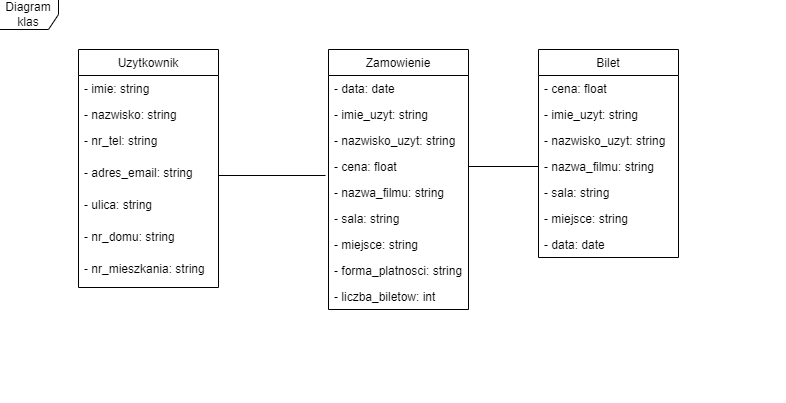
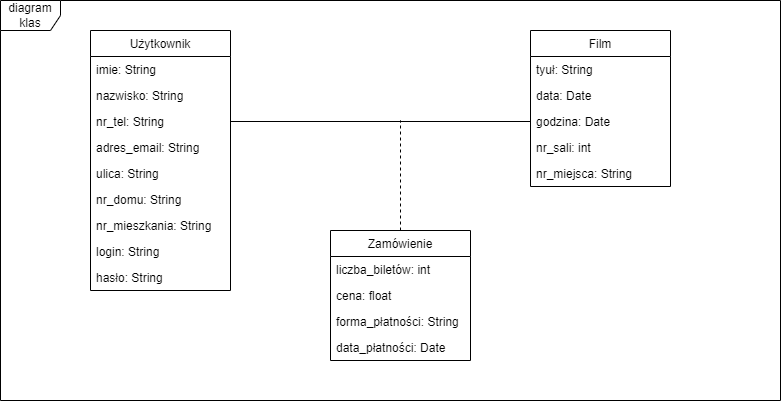
update

diff --git a/index.html b/index.html
@@ -73,7 +73,7 @@
            <h2>SYSTEM TRANSAKCYJNY - opis kontekstu dziedziny problemowej</h2>
            <div class="content">
                <p>Sieć kina chce podjąć się wyświetlana najnowszych obecnie filmów  ekranizowanych na swoich wyświetlaczach za stosowną opłatą uiszczoną w postaci biletu na seans. Właściciel sieci chce utworzyć system transakcyjny za bilety na aktualnie wyświetlane filmy. Metoda zakupu biletu odbywa się na stronie internetowej kina.</p>
-               <p>Metoda transakcji polega na odwiedzeniu przez użytkownika strony WWW kina na której to miałby on dostęp do aktualnie zaplanowanych przez kino filmów wyświetlanych konkretnego dnia i godziny. Po wybraniu interesującego go filmu mógłby przeczytać szczegółowe informacje o nim takie jak czas trwania filmu, reżyser, tytuł, krótki opis filmu, przycisk wybierz który przenosiłby do transakcji zakupowej biletu na wybrany przez użytkownika film po wcześniejszym zalogowaniu się na stronie kina. (w przypadku gdy nie posiada takowego zostaje poproszony o utworzenie go, oraz podanie niezbędnych danych osobowych takich jak: imie, nazwisko, adres email, nr tel, adres zamieszkania, kod pocztowy.) Użytkownik zostaje poproszony o wybór godziny filmu, następnie o wybór miejsc w sali. Na koniec proszony zostaje o wykonanie płatności przelewem za bilet. Po wykonaniu i zaakceptowaniu przez stronę transakcji zakupiony bilet wraz z potwierdzeniem przelewu zostaje wysłany drogą mailową do użytkownika w celu okazania go przed wejściem do Sali kinowej.</p>
+               <p>Metoda transakcji polega na odwiedzeniu przez użytkownika strony WWW kina na której to miałby on dostęp do aktualnie zaplanowanych przez kino filmów wyświetlanych konkretnego dnia i godziny. Po wybraniu interesującego go filmu mógłby przeczytać szczegółowe informacje o nim takie jak czas trwania filmu, reżyser, tytuł, krótki opis filmu, przycisk wybierz który przenosiłby do transakcji zakupowej biletu na wybrany przez użytkownika film po wcześniejszym zalogowaniu się na stronie kina. (w przypadku gdy nie posiada takowego zostaje poproszony o utworzenie go, oraz podanie niezbędnych danych osobowych takich jak: imie, nazwisko, adres email, nr tel, ulica, nr_domu, nr_mieszkania.) Użytkownik zostaje poproszony o wybór godziny filmu, następnie o wybór miejsc w sali. Na koniec proszony zostaje o wykonanie płatności przelewem za bilet. Po wykonaniu i zaakceptowaniu przez stronę transakcji zakupiony bilet wraz z potwierdzeniem przelewu zostaje wysłany drogą mailową do użytkownika w celu okazania go przed wejściem do Sali kinowej.</p>
                <p>Właściciel chciałby również, aby użytkownik miał możliwość zakupu biletu bez tworzenia konta użytkownika pomijając proces logowania. W takim wypadku użytkownik zostaje proszony o podanie potrzebnych danych: imie, nazwisko, adres email, adres zamieszkania, nr tel. Po uzupełnieniu danych zostaje przenoszony do realizacji zamówienia oraz opłaty za bilet poprzez przelew. Po zaakceptowaniu transakcji do użytkownika na podany adres email zostaje wysłany bilet i potwierdzenie przelewu. </p>
                <p>W każdym przypadku płatności zostaje odnotowana oraz zaksięgowana przez system.</p>
            </div>
@@ -86,14 +86,13 @@
                     <li> bilet – tytuł + autor + godzina seansu + cena netto + VAT + miejsca.</li>
                     <li>faktura sprzedaży – numer faktury + numer zamówienia + data wystawienia faktury + (dane płatnika) +kwota do zapłaty + forma płatności. Dokument drukowany przez klienta na podstawie zamówienia sprzedaży. </li>
                     <li>klient  – imię + nazwisko + dane użytkownik. Użytkownik systemu transakcyjnego. </li>
-                    <li>koszyk – bilet + liczba + cena sprzedaży. Wybrany film, miejsca przez użytkownika potrzebne do wystawienia zamówienia. </li>
                     <li>użytkownik – adres email + hasło+(dane klienta). Osoba podlegająca autoryzacji w systemie. </li>
                     <li>płatność karta kredytową – numer karty. Forma płatności wymagająca uwierzytelnienia karty w Systemie operatora kart. </li>
                     <li>płatność online – forma płatności elektronicznej (karta kredytowa, karta płatnicza, ePrzelew) wymagająca uwierzytelnienia użytkownika w odpowiednim zewnętrznym systemie weryfikacyjnym ( w zależności od podpisanych umów sklepu internetowego). </li>
                     <li>płatność w systemie payU – forma płatności wymagająca współpracy z systemem PayU (przelewy krajowe) </li>
                     <li>płatność w systemie Przelewy24 – forma płatności wymagająca współpracy z systemem Przelewy24 </li>
                     <li>płatność za pobraniem – kwota zapłacona + data wpłaty + numer zamówienia.</li>
-                    <li>Zamówienie – numer + data wystawienia + koszyk + forma płatności + sposób płatności </li>
+                    <li>Zamówienie – numer + data wystawienia + bilet + forma płatności + sposób płatności </li>
                 </ul>
             </div>
         </div>
